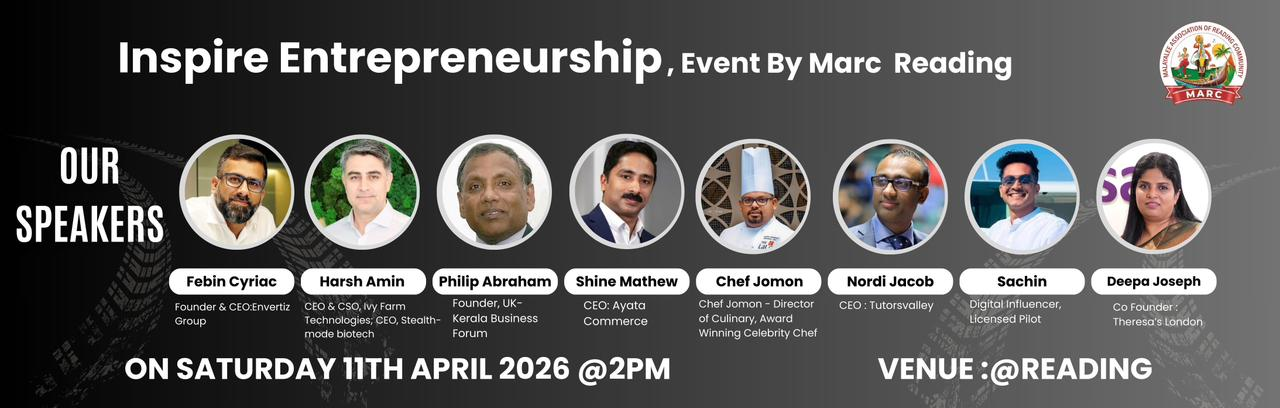
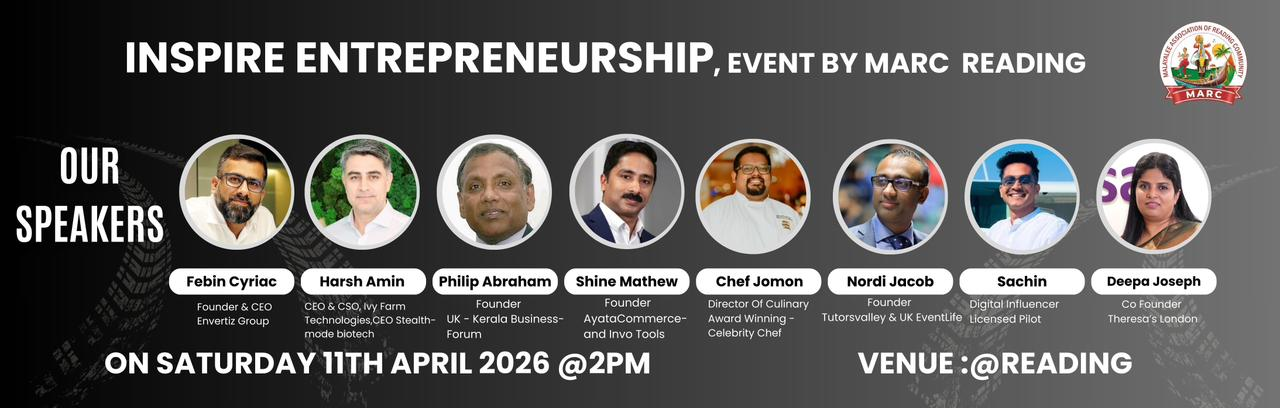
Chef Jomon changes

diff --git a/entrepreneurship-detail.html b/entrepreneurship-detail.html
@@ -473,10 +473,11 @@
                             <div class="custom-block-info marc-member-info">
                                 <div class="events-title mb-2">Chef Jomon</div>
                                 <p class="mb-0">
-                                    Jomon is recognised as one of the UK’s influential Malayalis. A TV personality and
-                                    former Executive Chef of The LaLiT London, he is a Craft Guild of Chefs award winner
-                                    and a BBC MasterChef contestant. He combines culinary artistry with leadership to
-                                    grow restaurant brands and uphold high standards in hospitality.
+                                    Jomon is Director of Culinary for The Tiffinbox across the UK and UAE. He is one of
+                                    UK's influential Malayalis, and former Executive Chef at The LaLiT London. An award
+                                    winner with the Craft Guild of Chefs and known for his appearance on Celebrity
+                                    MasterChef, Jomon brings together refined culinary artistry and strategic
+                                    leadership.
                                 </p>
                             </div>
                         </div>
